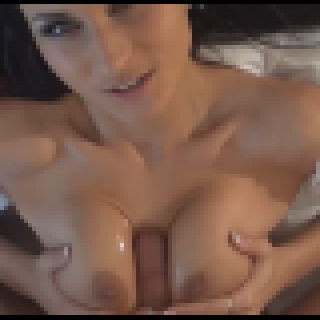
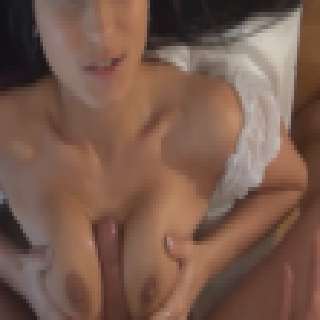
feat(training): rebuild clip mosaic from full clip 2:14-2:40, 24 frames
T-clip (Owner order via #204): the Training tab's pixel-art clip strip
previously used 16 frames from an early ~8-10s segment of clip_voll.mp4.
Rebuilt from the 2:14-2:40 (134000-160000ms) range instead, with 24
frames (was 16).

Frame selection is data-driven, not eyeballed: for each of 24 evenly
spaced target depths (0..1), picked the real clip_voll.funscript
general-axis curve value closest to that depth within the window, then
extracted and pixelated that exact video frame. This keeps
frameForLevel()'s curve->frame lookup honest — the frame shown at a
given intensity actually corresponds to that intensity in the real,
measured signal, not just a plausible-looking sequence.

Same crop/pixelate pipeline as the existing assets (crop 280,0,1000,700
from the 1280x720 source, downsample /9, nearest-neighbor upscale to
320x320) — calibrated by reproducing the existing f00.png from its
recorded source_idx before generating the new set, confirming the
pipeline matches.

pixel_figure.js's CLIP_COUNT/CLIP_FRAMES and frames.json (now recording
source_ts_ms and the source funscript window) updated together. No other
call site assumed a fixed frame count.

Verified: go build/test full suite green; npm run build clean, all 24
frames in dist; all 8 Training Playwright suites pass with no
regressions (training_display_test.py's frame-count-agnostic assertions
included).

Claude-Session: https://claude.ai/code/session_01PV7nAQSr9gAUfJHBzb1bVw

diff --git a/cmd/gui-wails/frontend/src/pixel_figure.js b/cmd/gui-wails/frontend/src/pixel_figure.js
@@ -10,9 +10,13 @@ import { figureHeatColor } from './figure_theme.js';
 const YOU_SRC = new URL('./assets/images/training-mosaic-you.png', import.meta.url).href;
 const PARTNER_SRC = new URL('./assets/images/training-mosaic-partner.png', import.meta.url).href;
 
-// Each frame as its own static `new URL` so Vite emits all 16 into dist.
-// (A directory-based `new URL(.../clip/, …)` does not — 0/16 in production.)
-const CLIP_COUNT = 16;
+// Each frame as its own static `new URL` so Vite emits all of them into
+// dist. (A directory-based `new URL(.../clip/, …)` does not — 0/N in
+// production.) 24 frames from the full clip 2:14-2:40 (134000-160000ms),
+// picked by the REAL clip_voll.funscript curve value at each timestamp
+// (not chronological order) so index-by-level below lines up with the
+// actual measured signal — see frames.json's source_ts_ms/depths.
+const CLIP_COUNT = 24;
 const CLIP_FRAMES = [
   new URL('./assets/images/training-mosaic-clip/f00.png', import.meta.url).href,
   new URL('./assets/images/training-mosaic-clip/f01.png', import.meta.url).href,
@@ -30,6 +34,14 @@ const CLIP_FRAMES = [
   new URL('./assets/images/training-mosaic-clip/f13.png', import.meta.url).href,
   new URL('./assets/images/training-mosaic-clip/f14.png', import.meta.url).href,
   new URL('./assets/images/training-mosaic-clip/f15.png', import.meta.url).href,
+  new URL('./assets/images/training-mosaic-clip/f16.png', import.meta.url).href,
+  new URL('./assets/images/training-mosaic-clip/f17.png', import.meta.url).href,
+  new URL('./assets/images/training-mosaic-clip/f18.png', import.meta.url).href,
+  new URL('./assets/images/training-mosaic-clip/f19.png', import.meta.url).href,
+  new URL('./assets/images/training-mosaic-clip/f20.png', import.meta.url).href,
+  new URL('./assets/images/training-mosaic-clip/f21.png', import.meta.url).href,
+  new URL('./assets/images/training-mosaic-clip/f22.png', import.meta.url).href,
+  new URL('./assets/images/training-mosaic-clip/f23.png', import.meta.url).href,
 ];
 
 /** Map training curve level (0..1) → clip frame index.

diff --git a/docs/AGENT_COORD.md b/docs/AGENT_COORD.md
@@ -92,7 +92,8 @@ next big theme. Prefer cleanup + focus over parallel feature sprawl.
 | Lane | Owner | Branch / PR | Goal | Status |
 |------|-------|-------------|------|--------|
 | B | Claude | [#188](https://github.com/funfunpayer/SamNPlayer/pull/188) + [#189](https://github.com/funfunpayer/SamNPlayer/pull/189) merged | **MT-Debug** trajectory capture (trackcv + simpletrack) + Review/Play overlay | **DONE** (`b7f5d2d`, `5762629`) |
-| T-train | Claude | `claude/training-intensity-tiers` | **T-train** (Owner order via #204) — landed `claude/training-mode-improvements-uu4965`'s last unmerged commit (profile intensity tiers + history auto-adjust + pulse-rhythm script) cleanly on current `main`; rest of that old branch already superseded by #177 | **IN PROGRESS** — this PR, then **T-clip** next |
+| T-train | Claude | #206 merged | **T-train** (Owner order via #204) — profile intensity tiers + history auto-adjust + pulse-rhythm script | **DONE** — lane free |
+| T-clip | Claude | `claude/training-clip-mosaic` | **T-clip** (Owner order via #204) — Training pixel-clip mosaic rebuilt from `clip_voll` 2:14-2:40, 24 frames (was 16), chosen by real funscript curve value not chronological order | **IN PROGRESS** — this PR, then post-Claude split → v0.5.25 |
 | A | Cursor | `cursor/release-0-5-23-d7cb` | bump **v0.5.23** + tag + Release | **THIS PR** — portable Training clip fix + MT wave |
 | F | Cursor | #183 merged | **MT-Go** coast + reacquire + lost UI | **DONE** (`94b2bae`) |
 | F2 | Cursor | #186 merged | **MT-Seed** — Tip (+ optional body-part/Zone2) from motion candidates | **DONE** (`5715b6b`) |

diff --git a/CHANGELOG.md b/CHANGELOG.md
@@ -8,6 +8,18 @@ measurement history behind each entry; this file is the short version for
 
 ## Unreleased
 
+### Changed
+
+- **Training clip mosaic — full clip, more frames, data-driven sync:**
+  the Training tab's pixel-art clip strip now uses 24 frames (was 16)
+  extracted from `clip_voll.mp4`'s 2:14–2:40 range, chosen by the
+  *actual* `clip_voll.funscript` curve value at each timestamp — not
+  chronological order — so `frameForLevel`'s curve→frame lookup matches
+  the real measured signal instead of an eyeballed sequence.
+  `pixel_figure.js`'s `CLIP_COUNT`/`CLIP_FRAMES` and
+  `training-mosaic-clip/frames.json` (now recording `source_ts_ms` and
+  the source funscript window) updated together.
+
 ## [0.5.24] — September 23, 2026
 
 ### Added
